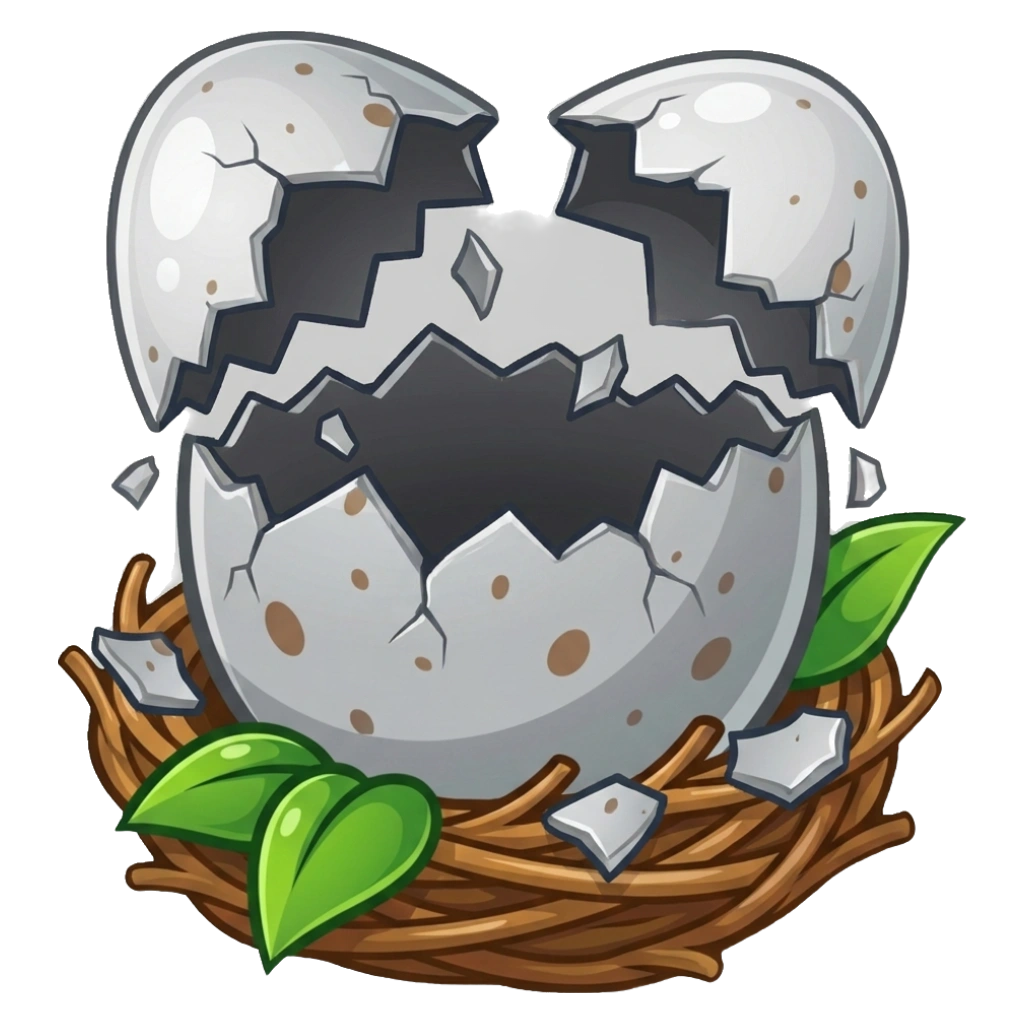
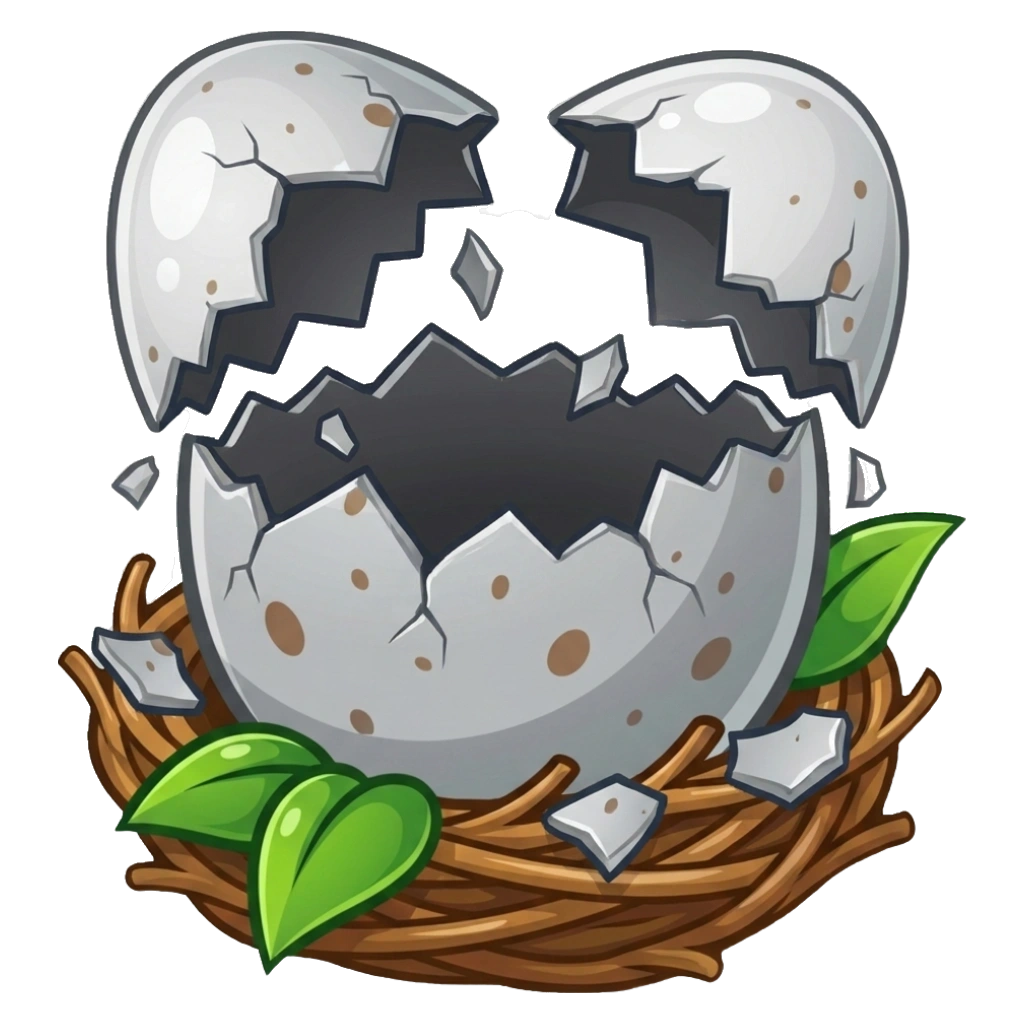
Clear studio backdrop left showing through the crack gaps
Seven hatch cracks carried an opaque pale smear across the crack
opening, where the embed should show through. common-crack is one of the
original six and has shipped with it all along; it is only visible
against a non-white background, which is why nobody had seen it.

Traced through the pipeline rather than guessed. The generator draws the
egg on a light-grey studio backdrop, and that backdrop shows through the
gaps between shell pieces. remove_background keeps it, because a region
enclosed by subject reads as foreground -- measured on one file, 7040
backdrop pixels in and 6791 out. The cutout mode's luminance peel cannot
reach it either, since it only eats pixels already touching transparency
and only three passes deep.

Repaired by flooding from each backdrop seed through connected pale
pixels and stopping at the art's own dark outlines, which is what keeps
the flood out of the shell beside it. Every fragment survived; region
counts rose, because the backdrop had been bridging pieces meant to be
separate.

The guard is scoped to the hatch family deliberately. The same signature
cannot distinguish backdrop from pale art cut flat by the frame, where
the art simply ends with no outline -- an unfiltered pass flagged a
gallimimus's throat and a tank-carnivore's chest, both perfect. That
reasoning is recorded where the next person will meet it.

Changed region(s): [[0.1875, 0.1875, 0.8125, 0.4375], [0.1562, 0.5312, 0.1875, 0.5938], [0.8438, 0.4375, 0.875, 0.4688]]

diff --git a/tests/lib/backdrop.ts b/tests/lib/backdrop.ts
@@ -1,0 +1,107 @@
+import { Image, createCanvas } from '@napi-rs/canvas';
+import { readFileSync } from 'node:fs';
+
+/**
+ * Finds un-removed studio backdrop inside a 1024x1024 cutout.
+ *
+ * The defect this exists for: the generator draws every cutout subject on a light
+ * grey studio backdrop. Where that backdrop shows through a gap BETWEEN parts of
+ * the subject — the opening between two shell fragments on a hatch crack — the
+ * background remover keeps it, because a region enclosed by subject reads as
+ * foreground. `fit-art.mjs cutout`'s luminance peel cannot reach it either: the
+ * peel only removes pixels already adjacent to transparency, three passes deep.
+ * The result renders as an opaque pale smear where the embed should show through.
+ *
+ * How a backdrop blob is told apart from legitimate pale art (a white egg shell
+ * is pale too): this art style draws a bold dark outline at every subject
+ * boundary, so real art meets transparency THROUGH its outline. A pale opaque
+ * pixel sitting directly against transparency with no dark pixel between is
+ * backdrop that survived.
+ *
+ * The `atCrop` flag is not optional bookkeeping — it is what makes the check
+ * usable at all. Where the subject is cut flat by the frame (house style, and
+ * the archetype references are cut exactly that way) the art simply ends with no
+ * outline, so a pale throat at the crop edge has the identical local signature.
+ * An unfiltered pass over the dino portraits flagged 74,903px of a gallimimus's
+ * cream throat and 69,101px of a tank-carnivore's chest, both perfect art.
+ */
+export interface BackdropBlob {
+  px: number;
+  x0: number; y0: number; x1: number; y1: number;
+  /** True when the blob reaches the canvas margin, i.e. it is art cut by the frame. */
+  atCrop: boolean;
+}
+
+const S = 1024;
+const LUM_WHITE = 190;
+const CHROMA_MAX = 34;
+const LUM_DARK = 110;
+const MIN_BLOB = 40;
+const EDGE = 45;
+
+const lum = (r: number, g: number, b: number): number => 0.299 * r + 0.587 * g + 0.114 * b;
+
+export async function findBackdrop(absPath: string): Promise<BackdropBlob[]> {
+  const img = new Image();
+  img.src = readFileSync(absPath);
+  await img.decode();
+  const canvas = createCanvas(S, S);
+  const ctx = canvas.getContext('2d');
+  ctx.drawImage(img, 0, 0, S, S);
+  const p = ctx.getImageData(0, 0, S, S).data;
+
+  const alpha = (i: number): number => p[i * 4 + 3]!;
+  const pale = (i: number): boolean => {
+    if (alpha(i) < 100) return false;
+    const r = p[i * 4]!, g = p[i * 4 + 1]!, b = p[i * 4 + 2]!;
+    return lum(r, g, b) >= LUM_WHITE && Math.max(r, g, b) - Math.min(r, g, b) <= CHROMA_MAX;
+  };
+  const dark = (i: number): boolean =>
+    alpha(i) >= 100 && lum(p[i * 4]!, p[i * 4 + 1]!, p[i * 4 + 2]!) < LUM_DARK;
+
+  const seeds: number[] = [];
+  for (let y = 1; y < S - 1; y++) {
+    for (let x = 1; x < S - 1; x++) {
+      const i = y * S + x;
+      if (!pale(i)) continue;
+      const nbr = [i - 1, i + 1, i - S, i + S];
+      if (nbr.some((n) => alpha(n) < 40) && !nbr.some(dark)) seeds.push(i);
+    }
+  }
+
+  const seen = new Uint8Array(S * S);
+  const blobs: BackdropBlob[] = [];
+  for (const s of seeds) {
+    if (seen[s]) continue;
+    const stack = [s];
+    seen[s] = 1;
+    let px = 0, x0 = S, y0 = S, x1 = -1, y1 = -1;
+    while (stack.length) {
+      const q = stack.pop()!;
+      px++;
+      const x = q % S, y = (q - x) / S;
+      if (x < x0) x0 = x;
+      if (x > x1) x1 = x;
+      if (y < y0) y0 = y;
+      if (y > y1) y1 = y;
+      const nbr = [x > 0 ? q - 1 : -1, x < S - 1 ? q + 1 : -1, y > 0 ? q - S : -1, y < S - 1 ? q + S : -1];
+      for (const m of nbr) {
+        if (m < 0 || seen[m] || dark(m) || !pale(m)) continue;
+        seen[m] = 1;
+        stack.push(m);
+      }
+    }
+    if (px < MIN_BLOB) continue;
+    blobs.push({
+      px, x0, y0, x1, y1,
+      atCrop: x0 <= EDGE || y0 <= EDGE || x1 >= S - 1 - EDGE || y1 >= S - 1 - EDGE,
+    });
+  }
+  return blobs.sort((a, b) => b.px - a.px);
+}
+
+/** Total interior backdrop, i.e. excluding art legitimately cut by the frame. */
+export async function interiorBackdropPx(absPath: string): Promise<number> {
+  const blobs = await findBackdrop(absPath);
+  return blobs.filter((b) => !b.atCrop).reduce((sum, b) => sum + b.px, 0);
+}

diff --git a/tests/images.test.ts b/tests/images.test.ts
@@ -8,6 +8,7 @@ import { CAMPAIGN } from '../src/data/battle/chapters/index.js';
 import { allSpecies } from '../src/data/species/index.js';
 import { WORLD_EVENTS } from '../src/data/world-events.js';
 import type { Archetype, Diet } from '../src/data/types.js';
+import { interiorBackdropPx } from './lib/backdrop.js';
 
 function srcFiles(dir: string): string[] {
   return readdirSync(dir, { withFileTypes: true }).flatMap((e) => {
@@ -448,6 +449,30 @@ describe('hatch crack art', () => {
     }
     const margin = Math.min(minX, minY, img.width - 1 - maxX, img.height - 1 - maxY);
     expect(Math.abs(margin - 31), `${name} margin ${margin}, expected ~31`).toBeLessThanOrEqual(1);
+  });
+
+  // Un-removed studio backdrop showing through the gaps BETWEEN shell fragments.
+  // Every check above passes on a crack with this defect: it is 1024×1024, its
+  // corners are transparent, its margin is 31px, and it has plenty of regions —
+  // the backdrop is simply opaque where the embed should show through, and it
+  // renders as a pale smear across the crack opening.
+  //
+  // Nothing caught it because nothing was looking. `remove_background` keeps a
+  // region enclosed by subject (it reads as foreground), and `fit-art.mjs
+  // cutout`'s luminance peel only removes pixels already adjacent to
+  // transparency, three passes deep, so it cannot reach into the blob. Measured
+  // on one file at the time it was found: 7040 backdrop px entering background
+  // removal, 6791 still there afterwards.
+  //
+  // Scoped to the hatch family on purpose. The detector cannot tell backdrop
+  // from pale art that is cut flat by the frame, because the art simply ends
+  // there with no outline to meet transparency through — over the dino
+  // portraits an unfiltered pass flagged a gallimimus's cream throat and a
+  // tank-carnivore's chest, both perfect. The cracks are an egg in a nest with
+  // no such cut edge, which is what makes the signature trustworthy here.
+  it.each(CRACK_FILES)('%s has no studio backdrop left in its crack gaps', async (name) => {
+    const px = await interiorBackdropPx(resolve(process.cwd(), 'assets/images/hatch', `${name}.webp`));
+    expect(px, `${name} carries ${px}px of opaque backdrop inside the subject`).toBeLessThan(400);
   });
 
   // The multi-region guard below is DELIBERATELY still keyed to the six base RARITIES,

diff --git a/docs/assets/prompts.md b/docs/assets/prompts.md
@@ -3274,6 +3274,50 @@ regenerating, still confirm by eye that the crack you touched kept its own
 fragments. What still applies from that pass is the *defringe* half —
 the light studio rim must be peeled, and all border pixels must end transparent.
 
+### Backdrop in the crack gaps — the defect this family is most prone to
+
+**Symptom.** A pale opaque smear across the crack opening, where the embed should
+show through. It survives every other check: the file is 1024×1024, its corners
+are transparent, its margin is 31px, and it has plenty of disconnected regions.
+It is only visible against a non-white background, which is why it shipped in
+`common-crack` — one of the original six — and went unnoticed until someone
+looked at the set over a coloured ground.
+
+**Cause, measured at each stage rather than inferred.** The generator draws the
+egg on a light-grey studio backdrop, and that backdrop is visible *through the
+gaps between shell pieces* — the V between the two upper halves, the zigzag
+between upper and lower. `remove_background` does not clear it, because a region
+enclosed by subject reads as foreground: on `mythic-crack-v2`, **7040 backdrop px
+went in and 6791 came out**, a 3.5% reduction. `fit-art.mjs cutout` cannot clear
+it either — its luminance peel only removes pixels already adjacent to
+transparency, three passes deep, so it cannot reach into a blob tens of thousands
+of pixels across.
+
+**Prevention, for a new or regenerated crack.** Ask for the gaps explicitly:
+
+> Everything visible through the gaps between the shell pieces is deep black
+> shadow — the empty inside of the egg — never the background, never a light or
+> grey area.
+
+**Repair, for art already committed.** `clear-backdrop.mjs` in this plan's
+workspace floods from each backdrop seed through connected pale, desaturated
+pixels and stops at the art's own dark outlines, then zeroes the alpha. Run it
+with `--preview` first and *look at the mask*: it renders what would be cleared
+in magenta over a dimmed copy. Seven files were repaired this way — the four
+`common-crack` files (46k–53k px each), `mythic-crack-v2` (2.9k), and
+`rare-crack-v2`/`-v3` (a few hundred each) — all to zero, with every shell
+fragment intact. Region counts *rose* afterwards, because the backdrop had been
+bridging pieces that are meant to be separate.
+
+**The guard.** `tests/images.test.ts` now asserts every hatch file carries under
+400px of interior backdrop, using `tests/lib/backdrop.ts`. Read that file's
+header before reusing the detector on another family: it cannot tell backdrop
+from pale art that is **cut flat by the frame**, because such art ends with no
+outline to meet transparency through. An unfiltered pass over the dino portraits
+flagged a gallimimus's cream throat (74,903px) and a tank-carnivore's chest
+(69,101px), both perfect. The cracks are an egg in a nest with no cut edge, which
+is what makes the signature trustworthy there and nowhere else without checking.
+
 **Prompt (identical for all six; only the attached reference changes):**
 
 > Keep the exact same cartoon dinosaur egg and the exact same woven twig nest:
